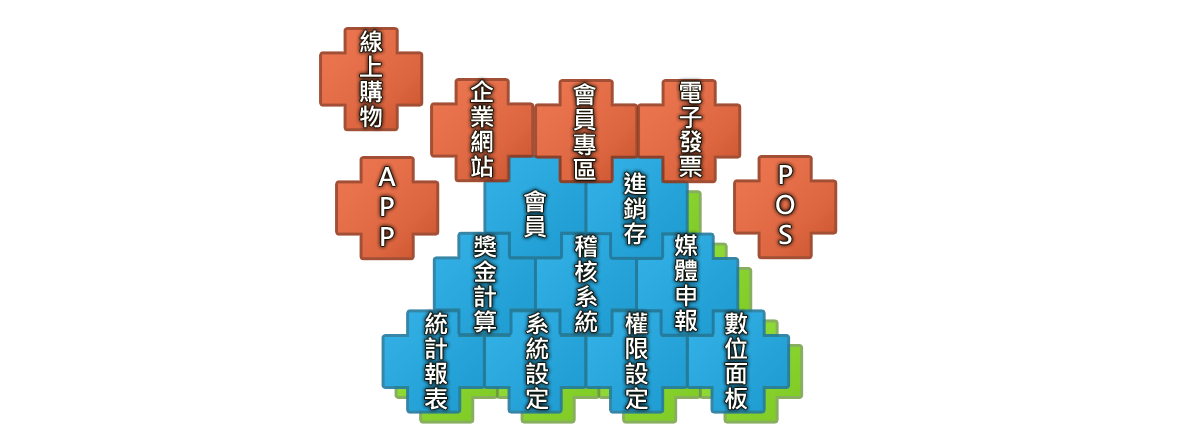
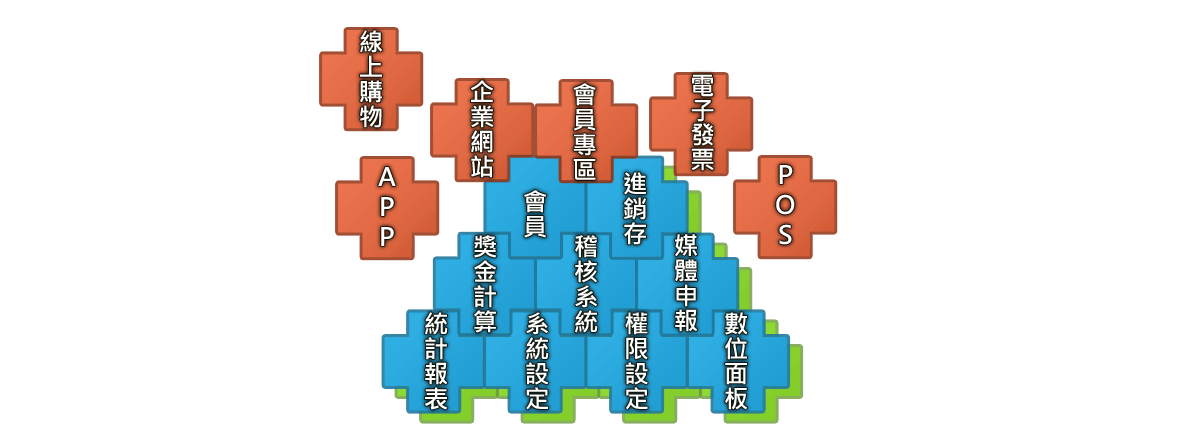
系統功能圖片與系統架構圖片變更
系統功能圖片改為一列4張
系統架構圖片電子發票分開

Changed region(s): [[0.5268, 0.1562, 0.6508, 0.4375]]

diff --git a/index.html b/index.html
@@ -399,7 +399,7 @@
       <h2 class="margin-bottom-50">系統 <strong>功能</strong></h2>
     </div>
     <div class="row">
-      <div class="item col-md-4 col-sm-6 col-xs-12">
+      <div class="item col-md-3 col-sm-6 col-xs-12">
         <img src="img/1.jpg" alt="NAME" class="img-responsive">
         <a href="img/1.jpg" class="zoom valign-center" rel="gallery1">
           <div class="valign-center-elem">
@@ -408,7 +408,7 @@
           </div>
         </a>
       </div>
-      <div class="item col-md-4 col-sm-6 col-xs-12">
+      <div class="item col-md-3 col-sm-6 col-xs-12">
         <img src="img/2.jpg" alt="NAME" class="img-responsive">
         <a href="img/2.jpg" class="zoom valign-center" rel="gallery1">
           <div class="valign-center-elem">
@@ -417,7 +417,7 @@
           </div>
         </a>
       </div>
-      <div class="item col-md-4 col-sm-6 col-xs-12">
+      <div class="item col-md-3 col-sm-6 col-xs-12">
         <img src="img/3.jpg" alt="NAME" class="img-responsive">
         <a href="img/3.jpg" class="zoom valign-center" rel="gallery1">
           <div class="valign-center-elem">
@@ -428,7 +428,7 @@
       </div>
 	</div>
     <div class="row">
-      <div class="item col-md-4 col-sm-6 col-xs-12">
+      <div class="item col-md-3 col-sm-6 col-xs-12">
         <img src="img/4.jpg" alt="NAME" class="img-responsive">
         <a href="img/4.jpg" class="zoom valign-center" rel="gallery1">
           <div class="valign-center-elem">
@@ -437,24 +437,42 @@
           </div>
         </a>
       </div>
-      <div class="item col-md-4 col-sm-6 col-xs-12">
+      <div class="item col-md-3 col-sm-6 col-xs-12">
         <img src="img/5.jpg" alt="NAME" class="img-responsive">
         <a href="img/5.jpg" class="zoom valign-center" rel="gallery1">
           <div class="valign-center-elem">
-            <strong>統計報表與媒體申報</strong>
+            <strong>統計報表</strong>
             <b>Details</b>
           </div>
         </a>
       </div>
-      <div class="item col-md-4 col-sm-6 col-xs-12">
+      <div class="item col-md-3 col-sm-6 col-xs-12">
         <img src="img/6.jpg" alt="NAME" class="img-responsive">
         <a href="img/6.jpg" class="zoom valign-center" rel="gallery1">
           <div class="valign-center-elem">
-            <strong>設定</strong>
+            <strong>媒體申報</strong>
+            <b>Details</b>
+          </div>
+        </a>
+      </div>	  
+      <div class="item col-md-3 col-sm-6 col-xs-12">
+        <img src="img/7.jpg" alt="NAME" class="img-responsive">
+        <a href="img/7.jpg" class="zoom valign-center" rel="gallery1">
+          <div class="valign-center-elem">
+            <strong>權限設定</strong>
             <b>Details</b>
           </div>
         </a>
       </div>
+      <div class="item col-md-3 col-sm-6 col-xs-12">
+        <img src="img/8.jpg" alt="NAME" class="img-responsive">
+        <a href="img/8.jpg" class="zoom valign-center" rel="gallery1">
+          <div class="valign-center-elem">
+            <strong>系統設定</strong>
+            <b>Details</b>
+          </div>
+        </a>
+      </div>	  
     </div>
   </div>
   <!-- Portfolio block END -->
